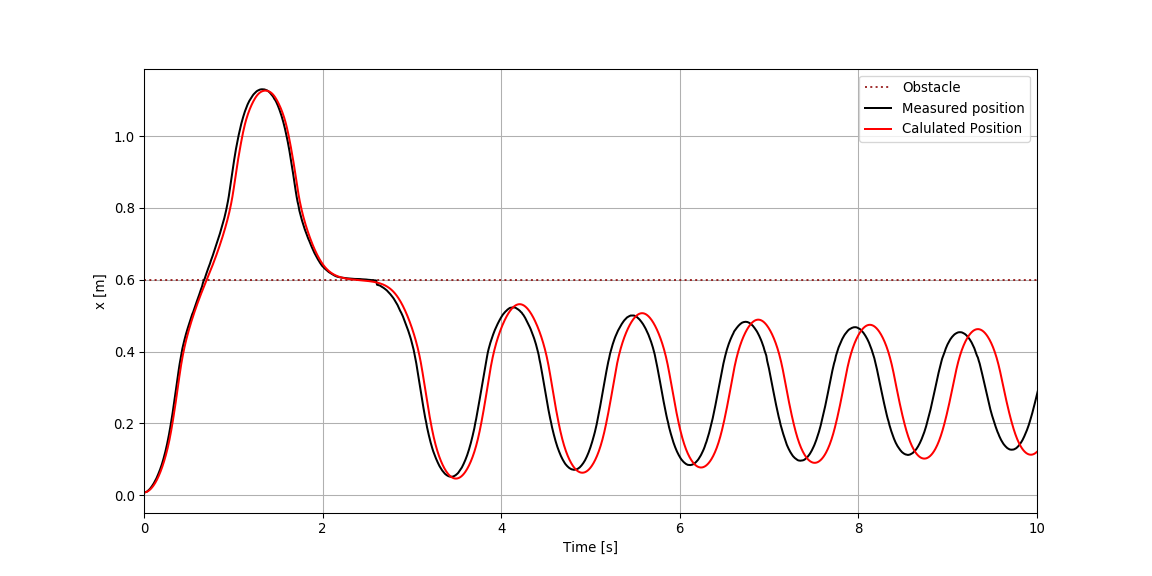
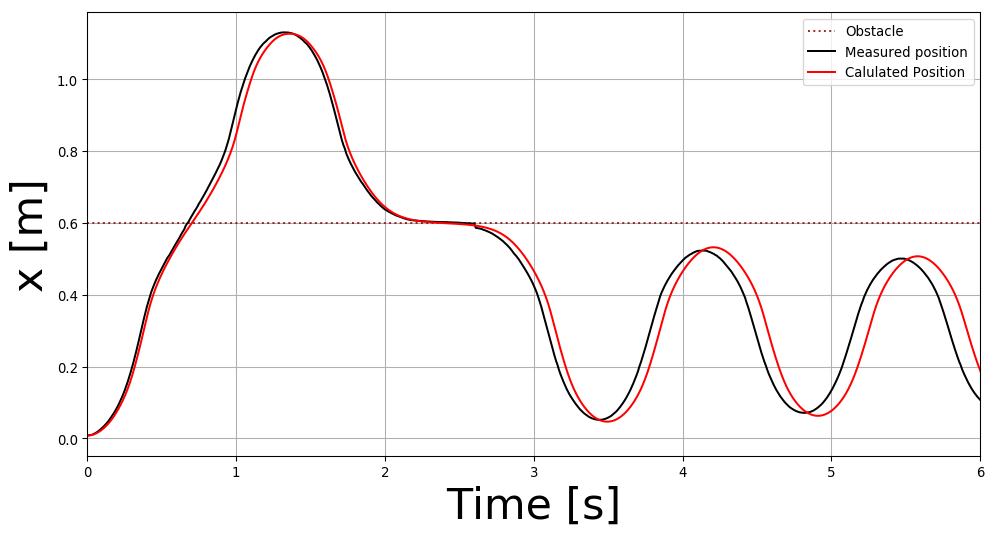
Increase font size. Reduce graphed section of data

diff --git a/plot_numerical_model.py b/plot_numerical_model.py
@@ -56,6 +56,9 @@ def plot_measured_numerical_model():
     passes = passChecker.detectPasses(integrator.time, integrator.position, integrator.velocity)
     print(f"Found {len(passes)} passes")
     
+    figure_size = (8, 7)
+    plt.rc('axes', titlesize=32, labelsize=32)
+
     # Error calculations
     delta_mass = 0.0001
     delta_gravity = 0.004
@@ -78,21 +81,21 @@ def plot_measured_numerical_model():
         + np.square(\
             m*np.cos(alpha)*delta_gravity\
           ))
-    
-      fig, ax0 = plt.subplots(1, figsize=(16, 9))
-      ax0.set_xlim(0, 10)
+          
+      fig, ax0 = plt.subplots(1, figsize=figure_size)
+      ax0.set_xlim(0, 6)
       ax0.plot(integrator.time, friction_error, label="Delta f")
       ax0.plot(integrator.time, normalForce_error, label="Delta N")
       ax0.set_xlabel("Time [s]")
       ax0.set_ylabel("Error [N]")
       ax0.legend()
       figure_path = "out/figure_graphs_simulated_delta_f_N.png"
-      fig.savefig(figure_path, dpi=96)
+      fig.savefig(figure_path, dpi=96, bbox_inches="tight")
     
     plotError()
 
     # Plot stuff
-    fig, (ax0) = plt.subplots(1, figsize=(16, 9))
+    fig, (ax0) = plt.subplots(1, figsize=(8, 5))
     
     measured_index = min(int(steps*integrator.timestep/0.01), len(measured_time))
 
@@ -107,51 +110,51 @@ def plot_measured_numerical_model():
     if flight:
         ax0.axvline(x=flight, label="Error! Liftoff/flight here")
     figure_path = "out/figure_graphs_simulated_track.png"
-    fig.savefig(figure_path, dpi=96)
+    fig.savefig(figure_path, dpi=96, bbox_inches="tight")
 
     # Plot the calculated values and show a horizontal line for the obstacle
-    fig, (ax1) = plt.subplots(1, figsize=(16, 9))
+    fig, (ax1) = plt.subplots(1, figsize=figure_size)
     ax1.axhline(obstacle_x, label="Obstacle", color="darkred", linestyle="dotted", alpha=0.8)
     ax1.plot(integrator.time, integrator.position, label="x position", color="red")
-    ax1.set_xlim(0, 10)
+    ax1.set_xlim(0, 6)
     ax1.set_xlabel("Time [s]")
     ax1.set_ylabel("x [m]")
     ax1.legend(loc="lower right")
     figure_path = "out/figure_graphs_simulated_x.png"
-    fig.savefig(figure_path, dpi=96)
+    fig.savefig(figure_path, dpi=96, bbox_inches="tight")
     
-    fig, (ax1) = plt.subplots(1, figsize=(16, 9))
+    fig, (ax1) = plt.subplots(1, figsize=figure_size)
     ax1.plot(integrator.time, integrator.velocity, label="Velocity")
-    ax1.set_xlim(0, 10)
+    ax1.set_xlim(0, 6)
     ax1.set_xlabel("Time [s]")
     ax1.set_ylabel("Parallell velocity [m/s]")
     ax1.legend(loc="lower right")
     figure_path = "out/figure_graphs_simulated_v.png"
-    fig.savefig(figure_path, dpi=96)
+    fig.savefig(figure_path, dpi=96, bbox_inches="tight")
 
-    fig, (ax1) = plt.subplots(1, figsize=(16, 9))
+    fig, (ax1) = plt.subplots(1, figsize=figure_size)
     ax1.plot(integrator.time, integrator.acceleration, label="Acceleration")
-    ax1.set_xlim(0, 10)
+    ax1.set_xlim(0, 6)
     ax1.set_xlabel("Time [s]")
     ax1.set_ylabel("Parallell acceleration [m/s^2]")
     ax1.legend(loc="lower right")
     figure_path = "out/figure_graphs_simulated_a.png"
-    fig.savefig(figure_path, dpi=96)
+    fig.savefig(figure_path, dpi=96, bbox_inches="tight")
 
     # Plot the calculated forces
-    fig, (ax2) = plt.subplots(1, figsize=(16, 9))
-    ax2.set_xlim(0, 10)
+    fig, (ax2) = plt.subplots(1, figsize=figure_size)
+    ax2.set_xlim(0, 6)
     ax2.plot(integrator.time, np.abs(frictions), label="Friction")
     ax2.plot(integrator.time, normalForces, label="Normal force")
     ax2.set_xlabel("Time [s]")
     ax2.set_ylabel("Force [N]")
     ax2.legend()
     figure_path = "out/figure_graphs_simulated_force.png"
-    fig.savefig(figure_path, dpi=96)
+    fig.savefig(figure_path, dpi=96, bbox_inches="tight")
 
     # Plot comparisons to the "real" values, measured with Tracker
     fig, (ax3) = plt.subplots(1, figsize=(12, 6))
-    ax3.set_xlim(0, 10)
+    ax3.set_xlim(0, 6)
     ax3.axhline(obstacle_x, label="Obstacle", color="darkred", linestyle="dotted", alpha=0.8)
     ax3.plot(measured_data[:,0], measured_data[:,1], label="Measured position", color="black")
     ax3.plot(integrator.time, integrator.position, label="Calulated Position", color="red")
@@ -160,29 +163,29 @@ def plot_measured_numerical_model():
     ax3.legend()
 
     figure_path = "out/figure_graphs_comparison_x.png"
-    fig.savefig(figure_path, dpi=96)
+    fig.savefig(figure_path, dpi=96, bbox_inches="tight")
 
 
-    fig, (ax4) = plt.subplots(1, figsize=(12, 6))
-    ax4.set_xlim(0, 10)    
+    fig, (ax4) = plt.subplots(1, figsize=(6, 6))
+    ax4.set_xlim(0, 6)    
     ax4.plot(integrator.time, normalForces, label="Calculated Normal force")
     ax4.plot(measured_time[:measured_index], measured_normalForces[:measured_index], label="Measured Normal force")
     ax4.set_xlabel("Time [s]")
     ax4.set_ylabel("Force [N]")
     ax4.legend()
     figure_path = "out/figure_graphs_comparison_n.png"
-    fig.savefig(figure_path, dpi=96)
+    fig.savefig(figure_path, dpi=96, bbox_inches="tight")
 
 
-    fig, (ax5) = plt.subplots(1, figsize=(12, 6))
-    ax5.set_xlim(0, 10)
+    fig, (ax5) = plt.subplots(1, figsize=(6, 6))
+    ax5.set_xlim(0, 6)
     ax5.plot(integrator.time, integrator.velocity, label="Calculated velocity")
     ax5.plot(measured_time, measured_v, label="Measured velocity")
     ax5.set_xlabel("Time [s]")
     ax5.set_ylabel("Track parallell velocity [m/s]")
     ax5.legend()
     figure_path = "out/figure_graphs_comparison_v.png"
-    fig.savefig(figure_path, dpi=96)
+    fig.savefig(figure_path, dpi=96, bbox_inches="tight")
 
 if __name__ == '__main__':
   plot_measured_numerical_model()
